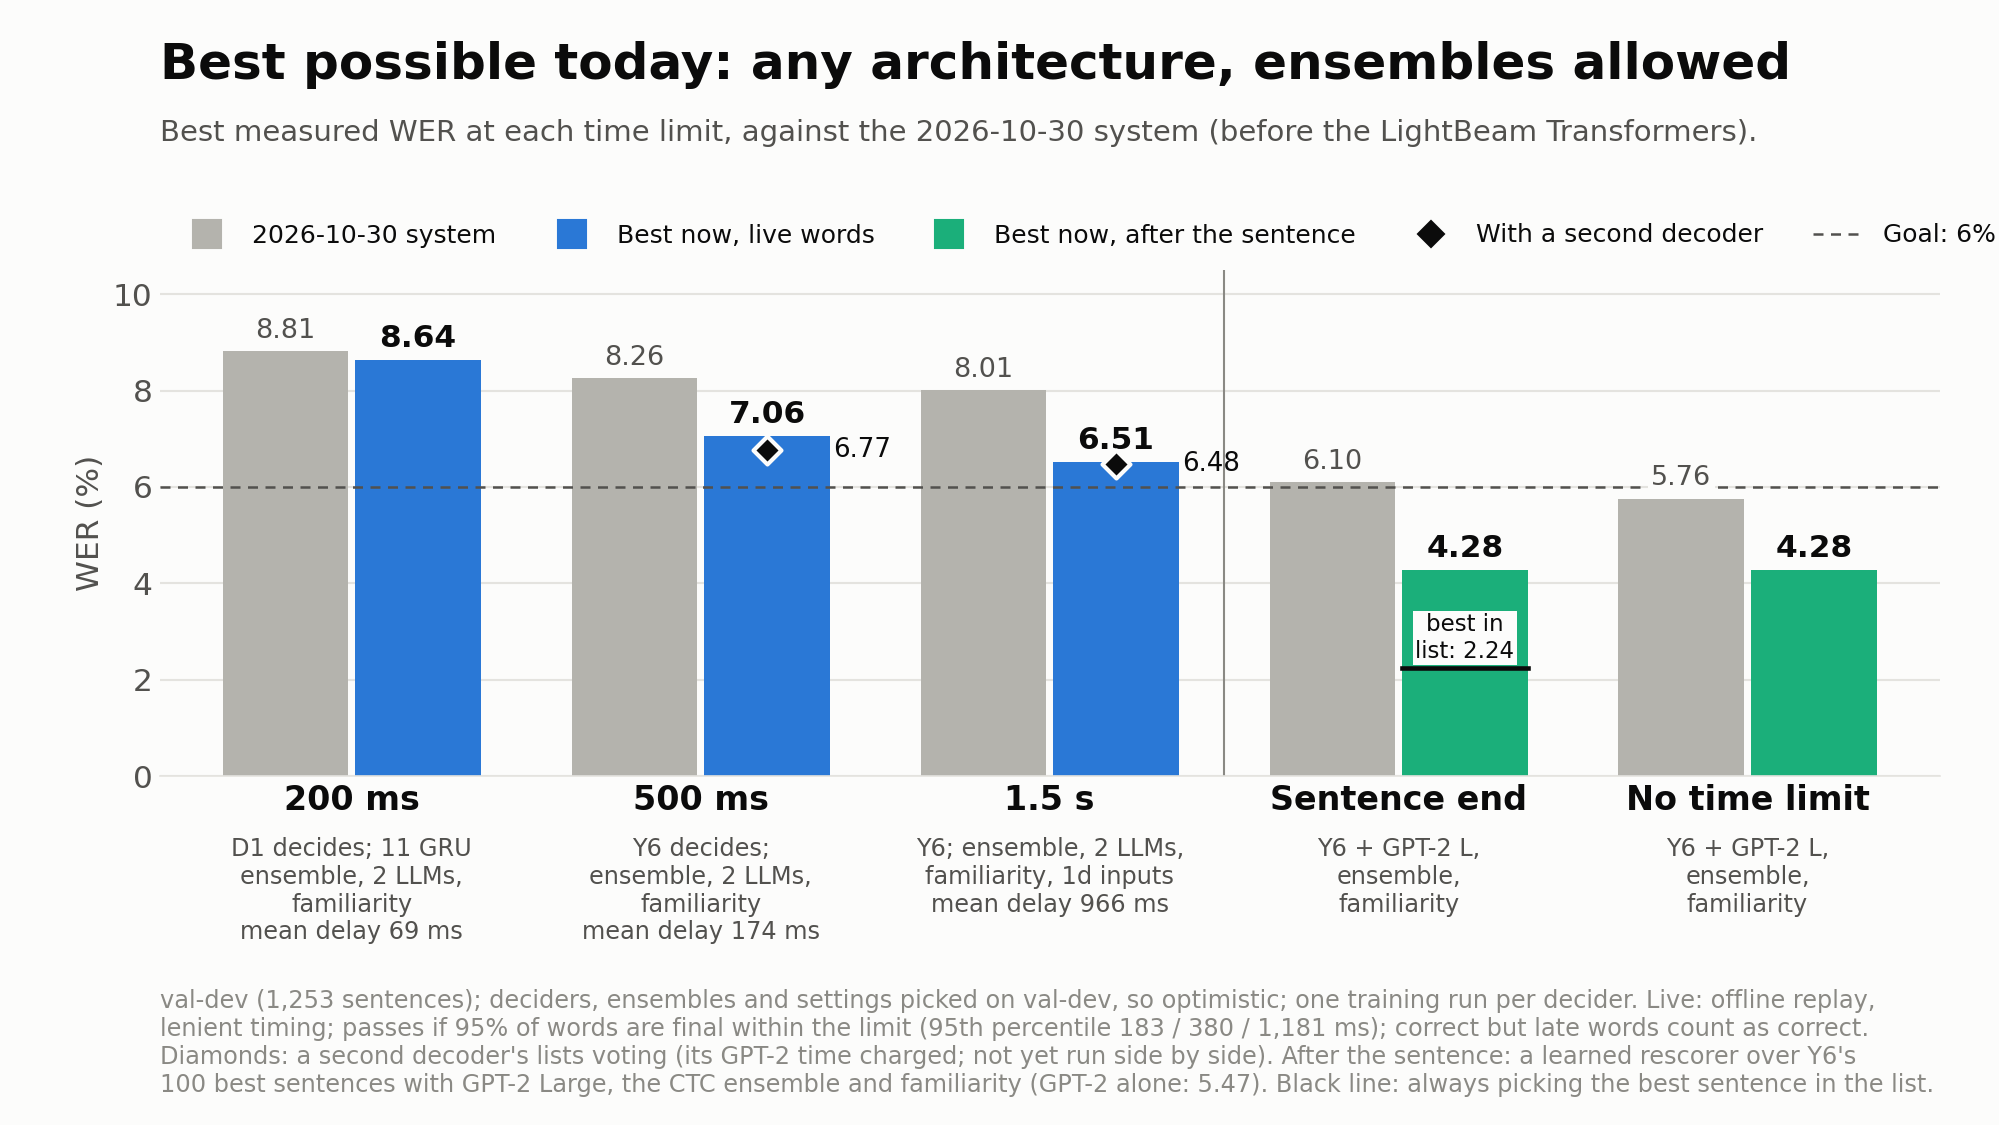
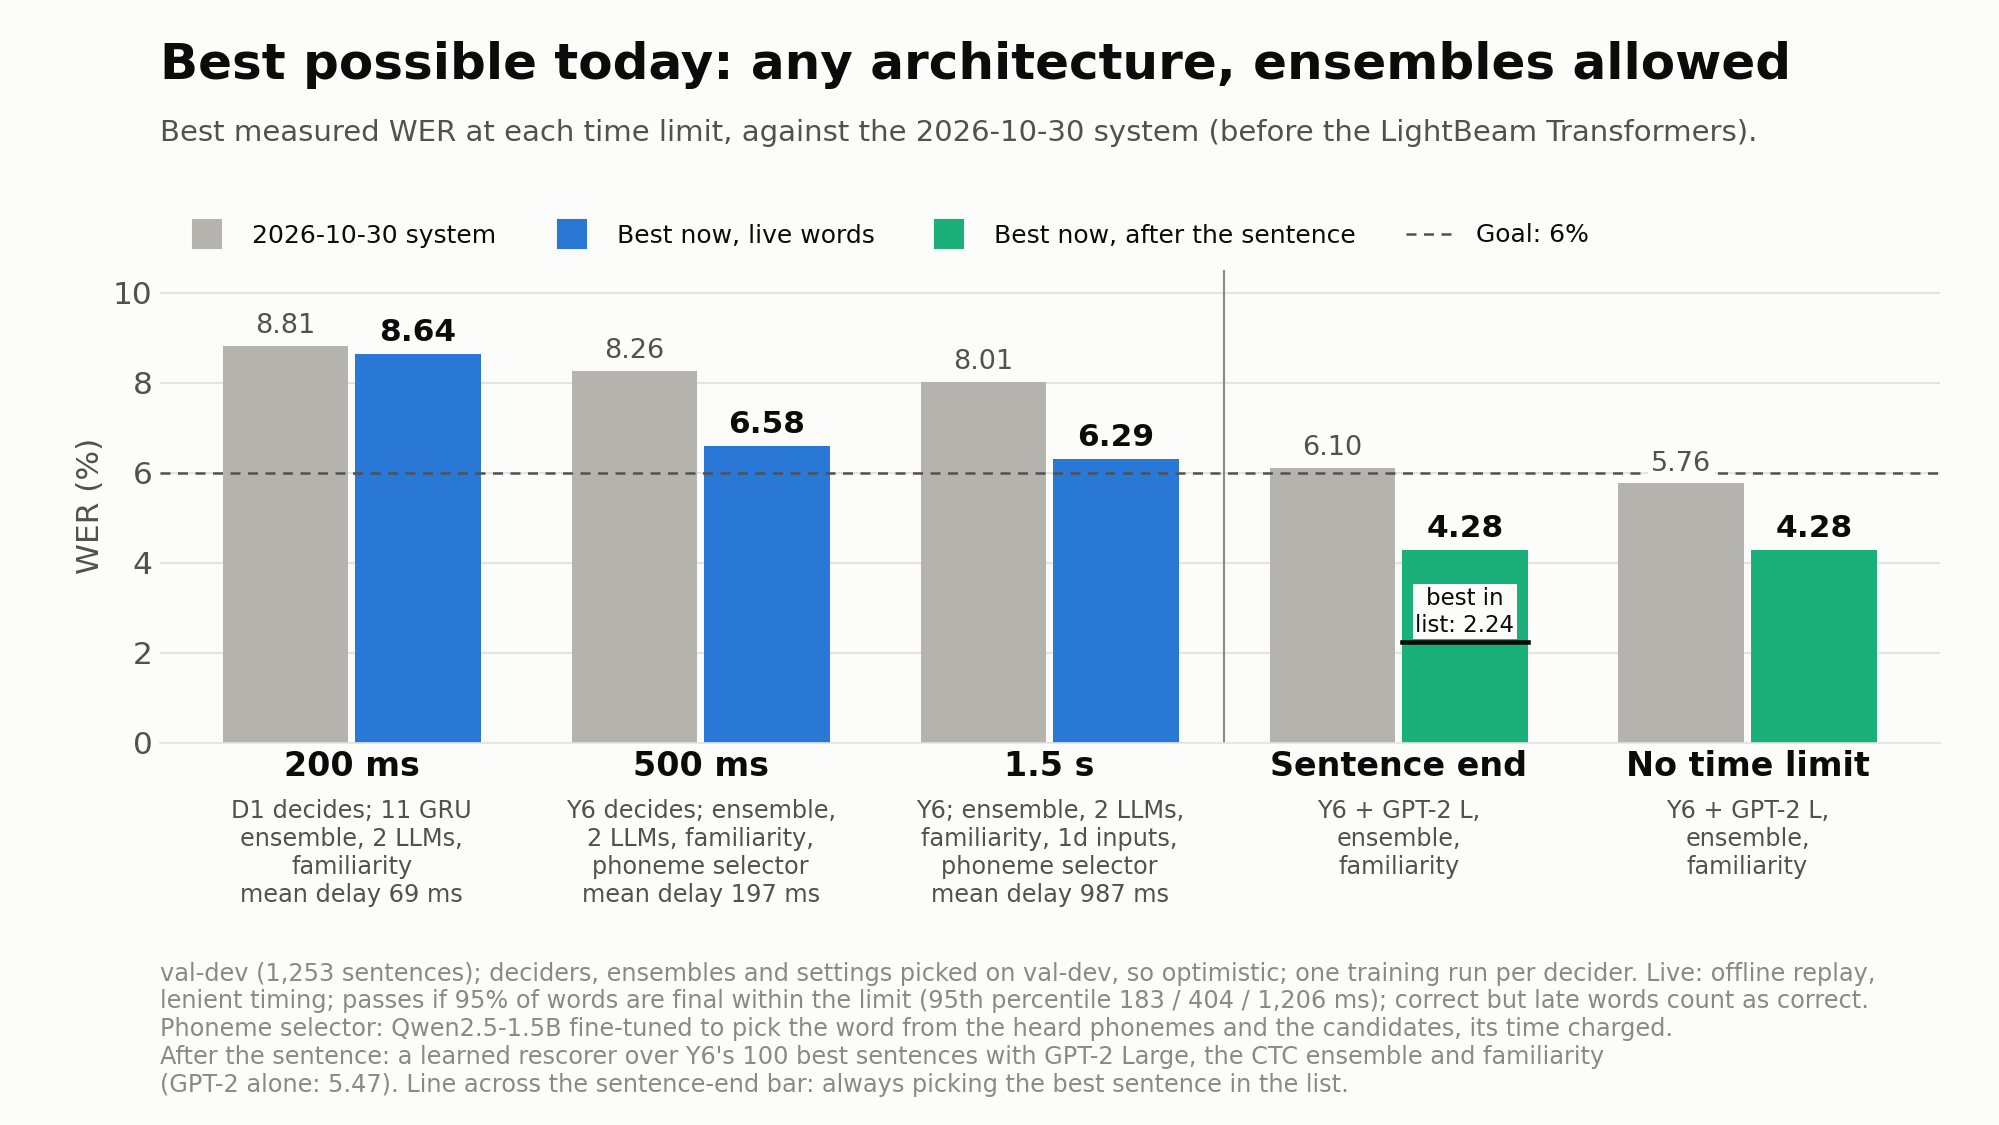
Phoneme-aware selector kept: live WER 6.58% at 500 ms and 6.29% at 1.5 s with its time charged; README and charts updated

diff --git a/README.md b/README.md
@@ -13,14 +13,14 @@ shown within 200 ms, 500 ms or 1.5 s of the moment the participant finished atte
 
 <picture>
   <source media="(prefers-color-scheme: dark)" srcset="docs/images/dark/02_best_possible.png">
-  <img src="docs/images/light/02_best_possible.png" alt="Bar chart of the best word error rate at each time limit. Live words: 8.64% at 200 ms (mean delay 69 ms), 7.06% at 500 ms (174 ms), 6.51% at 1.5 s (966 ms); with a second decoder 6.77% and 6.48%. After the sentence: 4.28%, against 2.24% if the best sentence in the decoder's list were always picked. Goal: 6%.">
+  <img src="docs/images/light/02_best_possible.png" alt="Bar chart of the best word error rate at each time limit. Live words: 8.64% at 200 ms (mean delay 69 ms), 6.58% at 500 ms (197 ms), 6.29% at 1.5 s (987 ms). After the sentence: 4.28%, against 2.24% if the best sentence in the decoder's list were always picked. Goal: 6%.">
 </picture>
 
 | Time limit after the word ends | One model | Full system | Mean delay | Deciding model |
 |---|---|---|---|---|
 | 200 ms | 9.27% | 8.64% | 69 ms | GRU D1 (causal) |
-| 500 ms | 7.87% | 7.06% | 174 ms | Transformer Y6 |
-| 1.5 s | 7.74% | 6.51% | 966 ms | Transformer Y6 |
+| 500 ms | 7.87% | 6.58% | 197 ms | Transformer Y6 |
+| 1.5 s | 7.74% | 6.29% | 987 ms | Transformer Y6 |
 | After the sentence (not the target) | 5.06% | 4.28% | - | Transformer Y6, its 100 best sentences rescored |
 
 A live result passes its time limit when 95% of words are final within it; a correct word that arrives late still
@@ -28,10 +28,12 @@ counts as correct, and the mean delay shows the typical wait. The deciding acous
 propose candidates for the next word, and at each word's deadline a learned ranker picks one. "One model" gives the
 ranker the deciding model's own scores, two language models (fine-tuned GPT-2 Large and OPT-2.7B) and how often each
 candidate word occurs in the training sentences (the language models and the decoder under-rate rare words, which
-hold two thirds of the errors). The "full system" adds the CTC scores of an ensemble of acoustic models: 11 causal
-GRUs at 200 ms and 500 ms, and at 1.5 s 22 GRUs, 3 Transformers and Y6 with three extra CTC inputs. With a second
-decoder's candidates voting, 500 ms and 1.5 s reach 6.77% and 6.48% (its language-model time charged; the two
-decoders have not yet been run side by side). After the sentence, a learned rescorer combines GPT-2 Large with the
+hold two thirds of the errors). The "full system" adds the CTC scores of an ensemble of acoustic models (11 causal
+GRUs at 200 ms and 500 ms, and at 1.5 s 22 GRUs, 3 Transformers and Y6 with three extra CTC inputs) and, at 500 ms
+and 1.5 s, a phoneme-aware selector: Qwen2.5-1.5B fine-tuned (LoRA) to pick the word from the phonemes the acoustic
+model heard and the candidates' pronunciations. It was trained on the held-out decisions of five Y6 models, each
+trained without one fifth of the training sentences, so it learned from realistic mistakes; it lowers live WER by
+0.48 at 500 ms and 0.22 at 1.5 s, with its 28 ms per word charged. After the sentence, a learned rescorer combines GPT-2 Large with the
 same inputs over Y6's 100 best sentences (GPT-2 Large alone: 5.47%). The exact sentence is in that list for 89% of
 sentences, and always picking the closest one would give 2.24%, so better choosing has room left.
 
@@ -48,8 +50,9 @@ These are on the project's validation partition of the public B2T '25 data ("val
 
 - Models, ensembles and settings were chosen on this same partition, so the numbers are optimistic. There is no
   independent holdout, and the competition's test labels are not public.
-- Live results are offline replays of the models' outputs under the timing rules, not a running streaming system;
-  the Transformers used here have no streaming implementation yet. The ranker is trained on half of the sessions
+- Live results are offline replays of the models' outputs under the timing rules, not a running streaming system.
+  Y6 streams in the harness's live player (its streamed outputs match the offline ones), but the timing here comes
+  from the replays. The ranker is trained on half of the sessions
   and scored on the other half, both ways.
 - Word-end times come from a forced alignment, not from measured speech.
 - Most comparisons are single training runs.
@@ -60,7 +63,7 @@ A second track on the Makin lab's ECoG dataset is intended; access and integrati
 
 <picture>
   <source media="(prefers-color-scheme: dark)" srcset="docs/images/dark/01_live_wer_waterfall_500ms.png">
-  <img src="docs/images/light/01_live_wer_waterfall_500ms.png" alt="Waterfall chart of live word error rate at 500 ms: GRU G2's own words 11.16%; Transformer Y6 instead of the GRU -1.42; two language models choosing the word -1.61; word familiarity -0.27 (one model: 7.87%); CTC scores of an acoustic-model ensemble -0.81; result 7.06%.">
+  <img src="docs/images/light/01_live_wer_waterfall_500ms.png" alt="Waterfall chart of live word error rate at 500 ms: GRU G2's own words 11.16%; Transformer Y6 instead of the GRU -1.42; two language models choosing the word -1.61; word familiarity -0.27 (one model: 7.87%); CTC scores of an acoustic-model ensemble -0.81; an LLM that reads the heard phonemes -0.47; result 6.58%.">
 </picture>
 
 ### GRU or Transformer, one acoustic model each

diff --git a/docs/PLAN.md b/docs/PLAN.md
@@ -1,8 +1,9 @@
 # Streaming neural decoding plan — updated 2026-11-19
 
-**Where things stand:** live-word WER is 8.64 / 7.06 / 6.51% at 200 ms / 500 ms / 1.5 s on val-dev with one decoder,
-against a target of below 6% (`current_knowledge.md` section 0, which also holds every result and the ledger of what
-was tried); with a second decoder's votes 6.77 / 6.48 at 500 ms / 1.5 s. The 500 ms and 1.5 s results come from the Y6_1
+**Where things stand (2026-11-19 afternoon):** live-word WER is 8.64 / 6.58 / 6.29% at 200 ms / 500 ms / 1.5 s on val-dev
+with one decoder (mean delay 69 / 197 / 987 ms), the last two with the fine-tuned phoneme-aware selector (step 1; 7.06 /
+6.51 without it), against a target of below 6% (`current_knowledge.md` section 0, which also holds every result and
+the ledger of what was tried). A second decoder's votes (without the selector) gave 6.77 / 6.48. The 500 ms and 1.5 s results come from the Y6_1
 average deciding the words, with word-familiarity features in the ranker. After the sentence, a learned rescorer with
 the CTC ensemble and familiarity reaches 4.28% (GPT-2 Large alone 5.47%; best sentence in the list 2.24%). Y13 reaches
 7.67% at 200 ms but has 94.9% of its words within 200 ms, just short of the 95% rule.
@@ -130,6 +131,12 @@ ranker, 500 ms 7.06 -> 6.75 (-0.23 to -0.31 on all four splits); with its 56 ms 
 but deadline-respecting WER rises 7.91 -> 8.57. 1.5 s: 6.51 -> 6.31 on the standard split only. Next: rebuild folds 1-3
 and train on folds 0-3 (about 23k contested decisions), and cut the selector's time (merged adapter, fewer options,
 scoring only close decisions, or in place of OPT at 500 ms).
+**Result of the full run (2026-11-19, `results/harness/queue/20261119T174419Z_selector_full/`):** folds 0-3, 23k
+contested decisions, merged adapter (28 ms). Pick accuracy 89.3% on val-dev (decoder 85.4%). Ranker, time charged:
+500 ms 7.06 -> 6.58 (all four splits -0.34 to -0.48), 1.5 s 6.51 -> 6.29 (standard and two of three random splits);
+deadline-respecting WER lower at both. Kept. Gaps to 6% now 0.58 at 500 ms and 0.29 at 1.5 s. Next for the selector:
+the synthetic set and a 3B model (more rare words; it already cuts never-seen-word WER 43.0 -> 39.4), D1's decisions
+for 200 ms, and words outside the list (1h).
  LoRA on Qwen2.5-1.5B (then 3B): first on the synthetic decisions, then on the fold decisions (the
 real decoder's lists); `learning/selector/finetune.py`; `peft` needed (an environment change). About 1-2 h of GPU per
 run. At the deadline one prompt of about 100-150 tokens plus the K options: roughly 20-40 ms, inside the 500 ms
